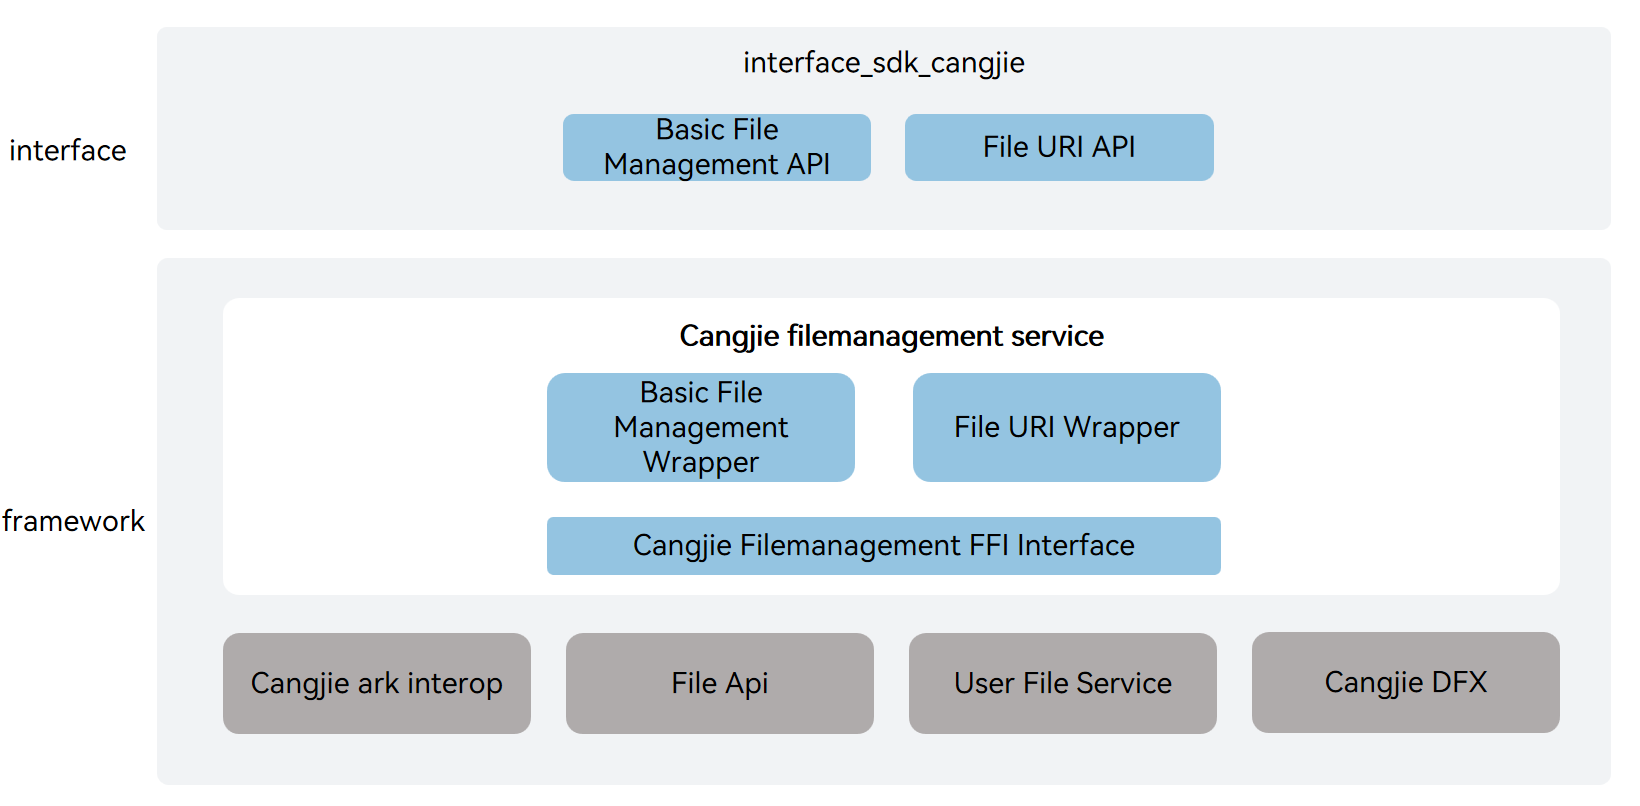
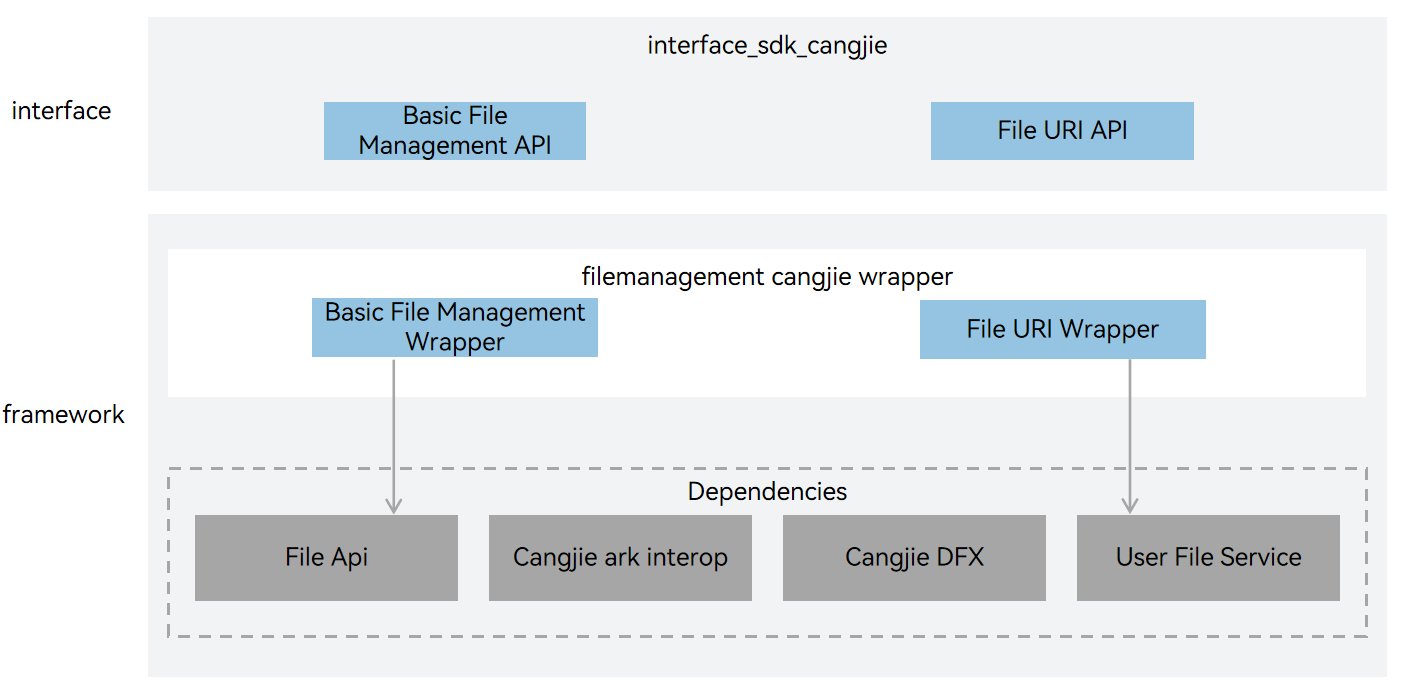
Adjust the architecture

diff --git a/README.md b/README.md
@@ -2,7 +2,7 @@
 
 ## Introduction
 
-The filemanagement_cangjie_wrapper is a Cangjie API encapsulated on OpenHarmony based on file access interfaces and public file access framework capabilities. The file management subsystem provides a complete file management solution for OpenHarmony. It provides secure and easy-to-use file access and comprehensive file management capabilities. The currently open file management Cangjie api only supports standard devices.
+The filemanagement_cangjie_wrapper is a Cangjie API encapsulated on OpenHarmony for application developers to provide a complete file data management solution. It provides secure and easy-to-use file access capabilities and comprehensive file storage management capabilities. The currently open file management Cangjie api only supports standard devices.
 
 ## System Architecture
 
@@ -13,20 +13,19 @@ As shown in the architecture diagram:
 
 Interface layer description:
 
-- Basic File Management API: Cangjie public interfaces based on basic file management encapsulation exposed to users.
-- File URI API: Cangjie public interfaces based on file URI encapsulation exposed to users.
+- Basic File Management API: Cangjie public interfaces based on basic file management encapsulation exposed to developers.
+- File URI API: Cangjie public interfaces based on file URI encapsulation exposed to developers.
 
 Framework layer description:
 
-- Basic File Management Wrapper: Provides file access capabilities, such as creating files, deleting files, modifying files, obtaining file information, and retrieving file lists.
-- File URI Wrapper: Provides an interface for obtaining the application's own URI.
-- Cangjie File Management FFI Interface Definition: Responsible for defining the C language interoperation interface with Cangjie, which is used to implement Cangjie's file management capabilities.
+- Basic File Management Wrapper: Basic file management provides file access capabilities, such as creating files, deleting files, modifying files, obtaining file information, and retrieving file lists. This encapsulation layer is a Cangjie encapsulation implementation of file management functionality based on the file access interface.
+- File URI Wrapper: File URI provides the ability to obtain the application's own URI. This encapsulation layer is a Cangjie encapsulation implementation of the file URI functionality based on the public file access service.
 
 Cangjie File Management Service Dependencies:
 
-- Cangjie ark interop: Encapsulates public interfaces for C language interoperation, and provides Cangjie tag class implementation for annotating Cangjie APIs, as well as providing BusinessException exception class definitions thrown to users.
-- File Api: Provides C language interfaces that can be called by the file management Cangjie interface for basic files for managing files, basic files for managing directories, and streaming file reading capabilities.
-- User File Service: Provides C language interfaces that can be called by the file management Cangjie interface for file sharing and management service capabilities.
+- File Access Interface: Provides capabilities for managing basic files, managing basic directories, and streaming file reading that can be called by the file management Cangjie interface.
+- Public File Access Service: Provides file sharing and management service capabilities that can be called by the file management Cangjie interface.
+- cangjie_ark_interop: Encapsulates public interfaces for C language interoperation, and provides Cangjie tag class implementation for annotating Cangjie APIs, as well as providing BusinessException exception class definitions thrown to users.
 - Cangjie DFX: Responsible for providing log interfaces, providing Cangjie interfaces that can be called by the file management Cangjie interface to print logs at critical paths.
 
 ## Directory Structure
@@ -42,37 +41,28 @@ foundation/filemanagement/filemanagement_cangjie_wrapper
 │       └── fs                        # Basic file management module
 └── test                              # Cangjie test code
     ├── filemanagement                # File management tests
-    │   └── test                      # File management test project
     └── file_uri                      # File URI tests
-        └── test                      # File URI test project
 ```
 
 ## Usage
 
 The current file management Cangjie interface provides the following functions:
 
-- Basic file access capability.
-- File information acquisition capability.
-
-For filemanagement-related APIs, please refer to:
-
--   [File Management](https://gitcode.com/openharmony-sig/arkcompiler_cangjie_ark_interop/blob/master/doc/API_Reference/source_en/apis/CoreFileKit/cj-apis-file_fs.md)
--   [File URI](https://gitcode.com/openharmony-sig/arkcompiler_cangjie_ark_interop/blob/master/doc/API_Reference/source_en/apis/CoreFileKit/cj-apis-file_fileuri.md)
+- Basic file access capability, including basic file operations such as creating, deleting, and moving files, file information acquisition, and file information setting functions. For details, please refer to [Basic File Management API](https://gitcode.com/openharmony-sig/arkcompiler_cangjie_ark_interop/blob/master/doc/API_Reference/source_en/apis/CoreFileKit/cj-apis-file_fs.md)
+- File access capability. For details on file access capability, please refer to [File URI API](https://gitcode.com/openharmony-sig/arkcompiler_cangjie_ark_interop/blob/master/doc/API_Reference/source_en/apis/CoreFileKit/cj-apis-file_fileuri.md).
 
 For relevant guidance, please refer to [File Management Usage Guide](https://gitcode.com/openharmony-sig/arkcompiler_cangjie_ark_interop/blob/master/doc/Dev_Guide/source_en/file-management/cj-core-file-kit-intro.md).
 
 ## Constraints
 
-Constraints on local I/O APIs:
+-   Basic file management interface currently only supports UTF-8/16 encoding.
+-   File URI currently does not support external storage directories.
 
--   Only UTF-8/16 encoding is supported.
--   The URIs cannot include external storage directories.
-
-Compared with the API capabilities provided by ArkTS, the following functions are not supported at the moment:
+Compared with the API capabilities provided by ArkTS, the following functions are not supported:
 
 - Storage management functions.
 - Common file function.
-- Distributed capabilities.
+- Distributed file management capabilities.
 - Application file sharing capabilities.
 
 ## Code Contribution

diff --git a/README_zh.md b/README_zh.md
@@ -2,7 +2,7 @@
 
 ## 简介
 
-文件管理仓颉接口是在OpenHarmony上面向开发者进行应用开发使用的文件访问接口、公共文件访问能力的仓颉API实现。为OpenHarmony提供一套文件数据管理解决方案，提供安全、易用的文件访问能力和完善的文件存储管理能力的仓颉API。当前开放的文件管理仓颉接口仅支持standard设备。
+文件管理仓颉封装为OpenHarmony应用开发者提供了一套文件数据管理解决方案，提供安全、易用的文件访问能力和完善的文件存储管理能力的仓颉API。当前开放的文件管理仓颉接口仅支持standard设备。
 
 ## 系统架构
 
@@ -20,14 +20,13 @@
 
 - 基本文件管理封装：基本文件管理提供文件访问能力，如创建文件、删除文件、修改文件、获取文件信息、获取文件列表等。该封装层是基于文件访问接口对文件管理功能进行仓颉封装实现。
 - 文件URI封装：文件URI提供获取应用自己的URI能力。该封装层是基于公共文件访问服务对文件URI功能进行仓颉封装实现。
-- 仓颉文件管理FFI接口定义：负责定义被Cangjie语言调用的C语言互操作接口，用于实现仓颉文件管理能力。
 
 仓颉文件管理服务依赖部件引入说明：
 
-- 仓颉互操作：封装C语言互操作公共接口，并提供仓颉标签类实现用于对仓颉API进行标注，以及提供抛向用户的BusinessException异常类定义。
-- 文件访问接口：提供可被文件管理仓颉接口调用的用于管理文件的基本文件，管理目录的基本文件，流式读取文件能力的C语言接口。
-- 公共文件访问服务：提供可被文件管理仓颉接口调用的文件分享和管理服务能力的C语言接口。
-- 仓颉DFX：负责提供日志接口，提供可被文件管理仓颉接口调用的在关键路径处打印日志能力的仓颉接口。
+- 文件访问接口：提供可被文件管理仓颉接口调用的用于管理基本文件，管理基本目录，流式读取文件native能力实现。
+- 公共文件访问服务：提供可被文件管理仓颉接口调用的文件分享和管理服务能力的native功能实现。
+- cangjie_ark_interop：封装C语言互操作公共接口，并提供仓颉标签类实现用于对仓颉API进行标注，以及提供抛向用户的BusinessException异常类定义。
+- hiviewdfx_cangjie_wrapper：负责提供日志接口，提供可被文件管理仓颉接口调用的在关键路径处打印日志能力的仓颉接口。
 
 ## 目录
 
@@ -42,38 +41,29 @@ foundation/filemanagement/filemanagement_cangjie_wrapper
 │       └── fs                        # 基本文件管理模块
 └── test                              # 仓颉测试代码
     ├── filemanagement                # 文件管理测试
-    │   └── test                      # 文件管理测试工程
     └── file_uri                      # 文件URI测试
-        └── test                      # 文件URI测试工程
 ```
 
 ## 使用说明
 
 当前文件管理仓颉接口提供了以下功能：
 
-- 基础文件访问能力。
-- 文件信息获取能力。
-
-文件管理相关API请参见：
-
--   [文件管理](https://gitcode.com/openharmony-sig/arkcompiler_cangjie_ark_interop/blob/master/doc/API_Reference/source_zh_cn/apis/CoreFileKit/cj-apis-file_fs.md)
--   [文件URI](https://gitcode.com/openharmony-sig/arkcompiler_cangjie_ark_interop/blob/master/doc/API_Reference/source_zh_cn/apis/CoreFileKit/cj-apis-file_fileuri.md)
+- 基础文件访问能力, 包含创建、删除、移动等文件基础操作、文件信息获取、文件信息设置功能，相关API详情请参考[基础文件管理 API](https://gitcode.com/openharmony-sig/arkcompiler_cangjie_ark_interop/blob/master/doc/API_Reference/source_zh_cn/apis/CoreFileKit/cj-apis-file_fs.md)
+- 文件访问能力，文件访问能力详情请参考[文件URI API](https://gitcode.com/openharmony-sig/arkcompiler_cangjie_ark_interop/blob/master/doc/API_Reference/source_zh_cn/apis/CoreFileKit/cj-apis-file_fileuri.md)。
 
 相关指导请参见[文件管理使用指导](https://gitcode.com/openharmony-sig/arkcompiler_cangjie_ark_interop/blob/master/doc/Dev_Guide/source_zh_cn/file-management/cj-core-file-kit-intro.md)。
 
 ## 约束
 
-本地IO接口
-
--   目前仅支持UTF-8/16编码。
--   目前URI暂不支持外部存储目录。
+-   基础文件管理接口目前仅支持UTF-8/16编码。
+-   文件URI目前URI暂不支持外部存储目录。
 
 与ArkTS提供的API能力相比，暂不支持以下功能：
 
 - 存储管理功能。
 - 公共文件功能。
-- 分布式能力。
-- 应用文件分享能力。
+- 分布式文件管理功能。
+- 应用文件分享功能。
 
 ## 参与贡献
 
